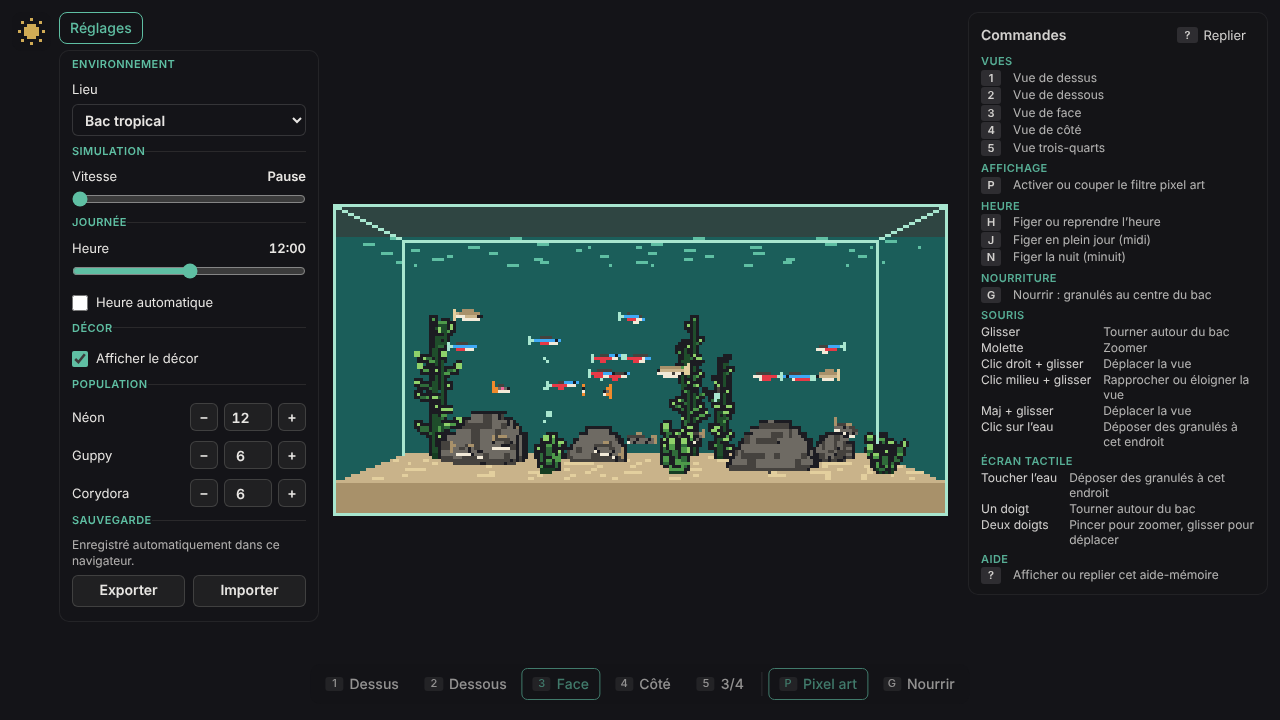
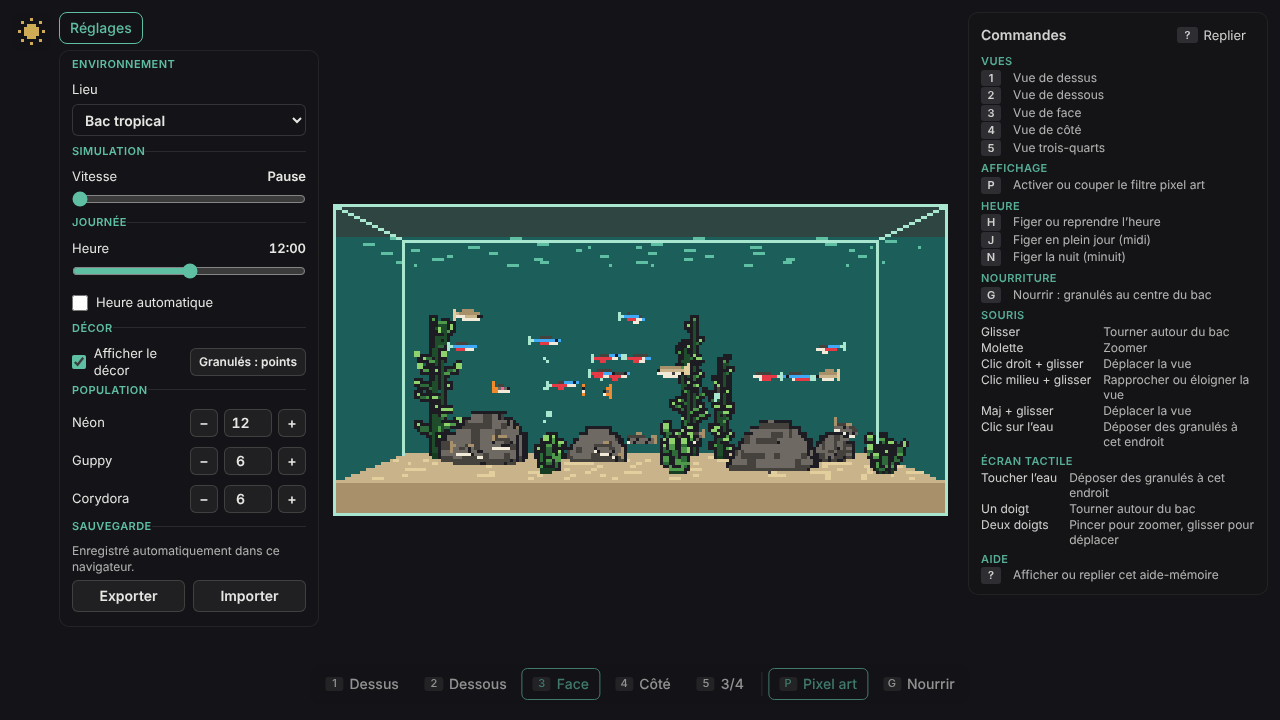
captures(c037): 5 angles

diff --git a/captures/latest/SOURCE.md b/captures/latest/SOURCE.md
@@ -1,7 +1,6 @@
-# Captures du cycle 36
-- Branche : cycle/c036-fleurs-nenuphars
-- PR : #116 (fleurs de nénuphar et lotus, #104)
-- Commit capturé : afc8efa (tête de PR ; le commit 9efd98f n'ajoute qu'un test e2e)
-- Graine : 42 (contrat de capture)
-- Temps : voir e2e/captures.spec.ts (temps simulé fixé par capture)
-- Différences avec la série précédente (c035) : bassin-top, bassin-three-quarter, bassin-three-quarter-minuit (fleurs, attendu) ; front-panneau (non déterministe, connu) ; nouvelles : bassin-top-minuit, bassin-top-sans-filtre. 15 captures tropicales identiques à l'octet.
+# Captures du cycle 37
+- Branche : cycle/c037-granules-discrets
+- PR : #119
+- Commit : 7fa61f1
+- Graine : 42
+- Série : `npm run captures` (31 tests), 2026-10-21 ; 15 captures sans nourriture identiques à l'octet à la série précédente (hors front-panneau, interface).

diff --git a/captures/c037/SOURCE.md b/captures/c037/SOURCE.md
@@ -1,0 +1,6 @@
+# Captures du cycle 37
+- Branche : cycle/c037-granules-discrets
+- PR : #119
+- Commit : 7fa61f1
+- Graine : 42
+- Série : `npm run captures` (31 tests), 2026-10-21 ; 15 captures sans nourriture identiques à l'octet à la série précédente (hors front-panneau, interface).
